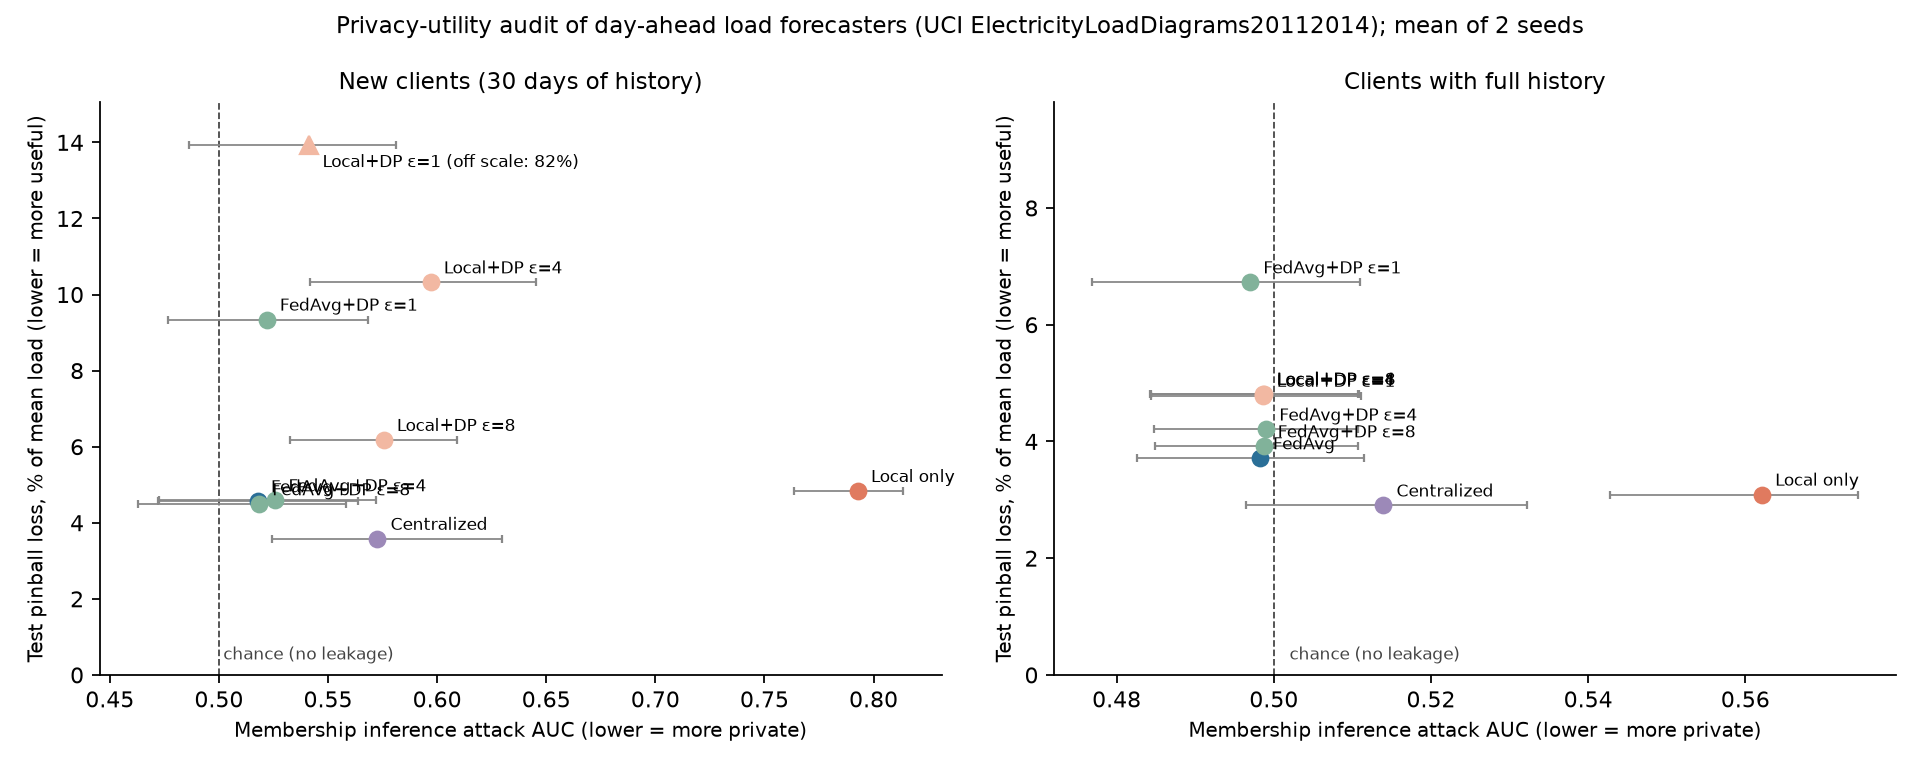
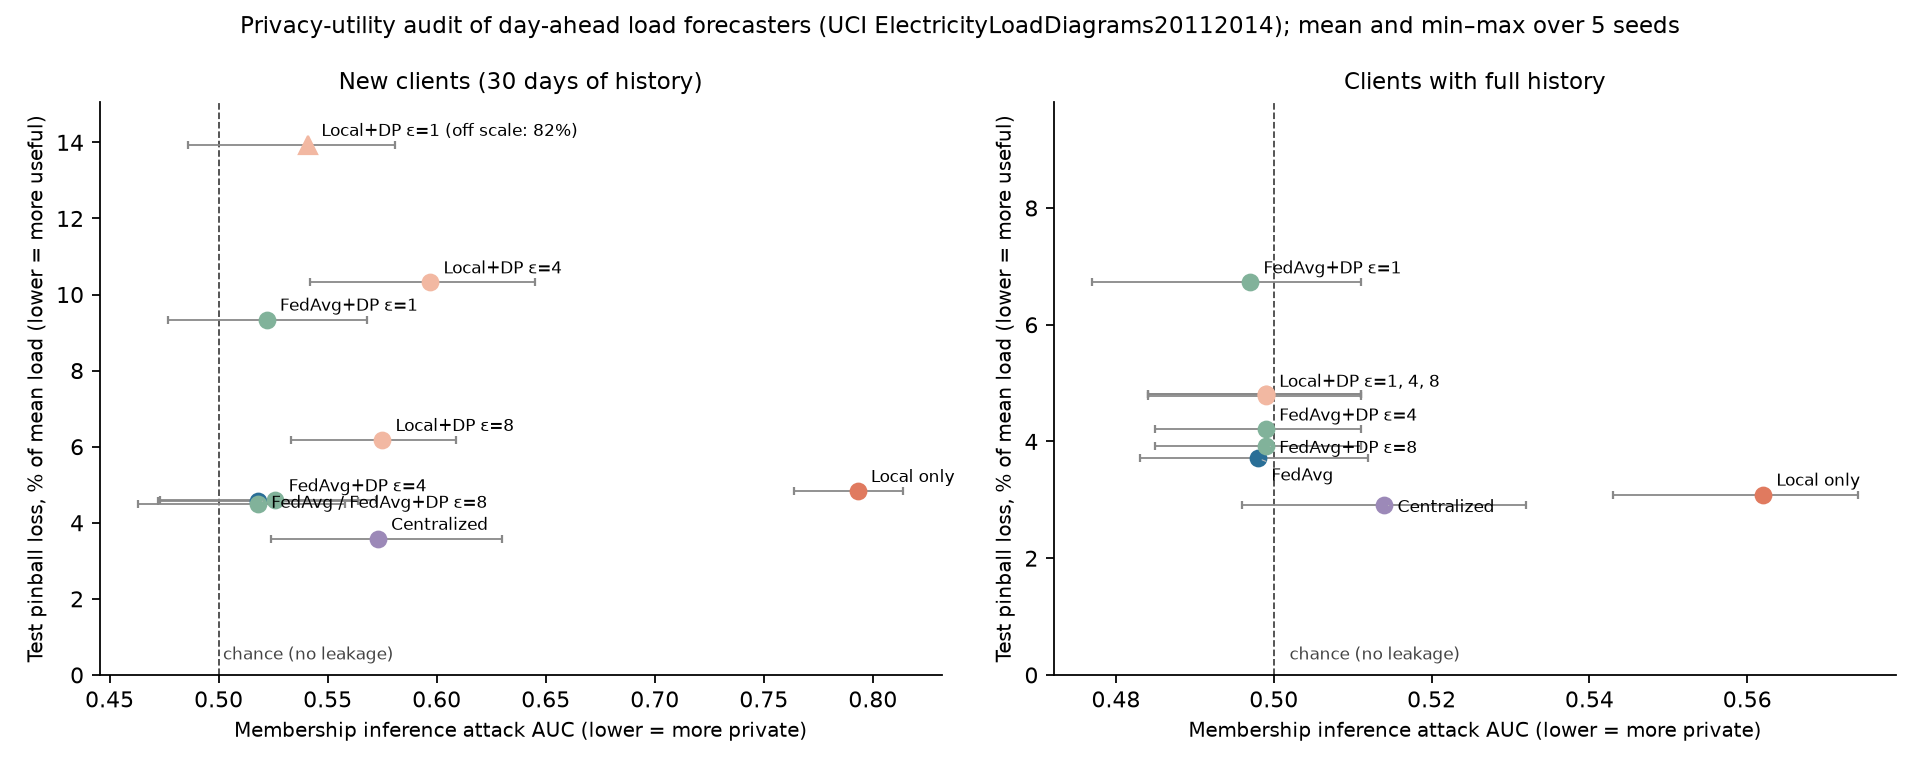
Fix audit plot title and labels; clarify seeds in README; update secagg results

diff --git a/mia.py b/mia.py
@@ -174,7 +174,10 @@ def main():
     ap.add_argument("--seed", type=int, default=0, help="seed for choosing clients")
     ap.add_argument("--seeds", default="0,1")
     ap.add_argument("--out", default="results")
+    ap.add_argument("--plot-only", action="store_true", help="redraw mia.png from <out>/mia.csv")
     args = ap.parse_args()
+    if args.plot_only:
+        return replot(args.out)
 
     if args.synthetic:
         df, source = F.make_synthetic(args.clients, args.seed), "synthetic"
@@ -242,11 +245,11 @@ def main():
         print(f"  {name:<16} | {r.auc_full_mean:10.3f} {r.auc_new_mean:10.3f} | "
               f"{r.upd_auc_full_mean:8.3f} {r.upd_auc_new_mean:9.3f} | "
               f"{r.pinball_full_mean:5.2f}% {r.pinball_new_mean:6.2f}%")
-    plot(summ, out / "mia.png", source)
+    plot(summ, out / "mia.png", source, len(args.seeds.split(",")))
     print(f"\nSaved {out}/mia.csv and {out}/mia.png")
 
 
-def plot(summ, path, source):
+def plot(summ, path, source, n_seeds):
     import matplotlib
     matplotlib.use("Agg")
     import matplotlib.pyplot as plt
@@ -268,26 +271,57 @@ def plot(summ, path, source):
         ax.axvline(0.5, color="#444", lw=0.8, ls="--")
         ax.text(0.502, 0.02, "chance (no leakage)", transform=ax.get_xaxis_transform(),
                 fontsize=7.5, color="#444", va="bottom")
+        pts = []
         for r in summ.itertuples():
             x, y = getattr(r, f"auc_{g}_mean"), getattr(r, f"pinball_{g}_mean")
             xe = [[x - getattr(r, f"auc_{g}_min")], [getattr(r, f"auc_{g}_max") - x]]
-            lab = label(r)
-            if y > cap:  # model unusable: draw at the top edge
-                ax.errorbar(x, cap, xerr=xe, fmt="^", ms=8, color=colors[r.setting], ecolor="#888", lw=0.8, capsize=2)
-                ax.annotate(f"{lab} (off scale: {y:,.0f}%)", (x, cap), textcoords="offset points",
-                            xytext=(6, -10), fontsize=7.5)
+            off = y > cap  # model unusable: draw at the top edge
+            ax.errorbar(x, cap if off else y, xerr=xe, fmt="^" if off else "o", ms=8 if off else 7,
+                        color=colors[r.setting], ecolor="#888", lw=0.8, capsize=2)
+            pts.append([x, cap if off else y, label(r) + (f" (off scale: {y:,.0f}%)" if off else "")])
+        # one label for points that coincide (e.g. Local+DP at every ε on full clients)
+        merged = []
+        for x, y, lab in pts:
+            for m in merged:
+                if abs(m[0] - x) < 0.002 and abs(m[1] - y) < 0.02 * cap:
+                    m[2].append(lab)
+                    break
             else:
-                ax.errorbar(x, y, xerr=xe, fmt="o", ms=7, color=colors[r.setting], ecolor="#888", lw=0.8, capsize=2)
-                ax.annotate(lab, (x, y), textcoords="offset points", xytext=(6, 4), fontsize=7.5)
+                merged.append([x, y, [lab]])
+        # stack labels of nearby points so they do not overlap
+        fig.canvas.draw()
+        to_px = ax.transData.transform
+        placed = []
+        for x, y, labs in sorted(merged, key=lambda m: -m[1]):
+            if len(labs) > 1 and all(l.split(" ε=")[0] == labs[0].split(" ε=")[0] for l in labs):
+                text = labs[0].split(" ε=")[0] + " ε=" + ", ".join(l.split(" ε=")[1] for l in labs)
+            else:
+                text = " / ".join(labs)
+            px, py = to_px((x, y))
+            dy = 4
+            while any(abs(px - qx) < 90 and abs((py + dy * 1.6) - qy) < 11 for qx, qy in placed):
+                dy -= 7
+            placed.append((px, py + dy * 1.6))
+            ax.annotate(text, (x, y), textcoords="offset points", xytext=(6, dy), fontsize=7.5,
+                        arrowprops=dict(arrowstyle="-", color="#bbb", lw=0.5) if dy != 4 else None)
         ax.set_xlabel("Membership inference attack AUC (lower = more private)", fontsize=9)
         ax.set_ylabel("Test pinball loss, % of mean load (lower = more useful)", fontsize=9)
         ax.set_title(title, fontsize=10.5)
         ax.spines[["top", "right"]].set_visible(False)
-    fig.suptitle(f"Privacy-utility audit of day-ahead load forecasters ({source}); mean of 2 seeds",
-                 fontsize=10.5)
+    fig.suptitle(f"Privacy-utility audit of day-ahead load forecasters ({source}); "
+                 f"mean and min–max over {n_seeds} seed{'s' if n_seeds != 1 else ''}", fontsize=10.5)
     fig.tight_layout()
     fig.savefig(path, dpi=160)
     plt.close(fig)
+
+
+def replot(out):
+    """Redraw mia.png from a saved mia.csv, without retraining."""
+    out = Path(out)
+    summ = pd.read_csv(out / "mia.csv")
+    cfg = json.loads((out / "mia_config.json").read_text())
+    plot(summ, out / "mia.png", cfg["source"], len(str(cfg["seeds"]).split(",")))
+    print(f"Redrew {out}/mia.png")
 
 
 if __name__ == "__main__":
